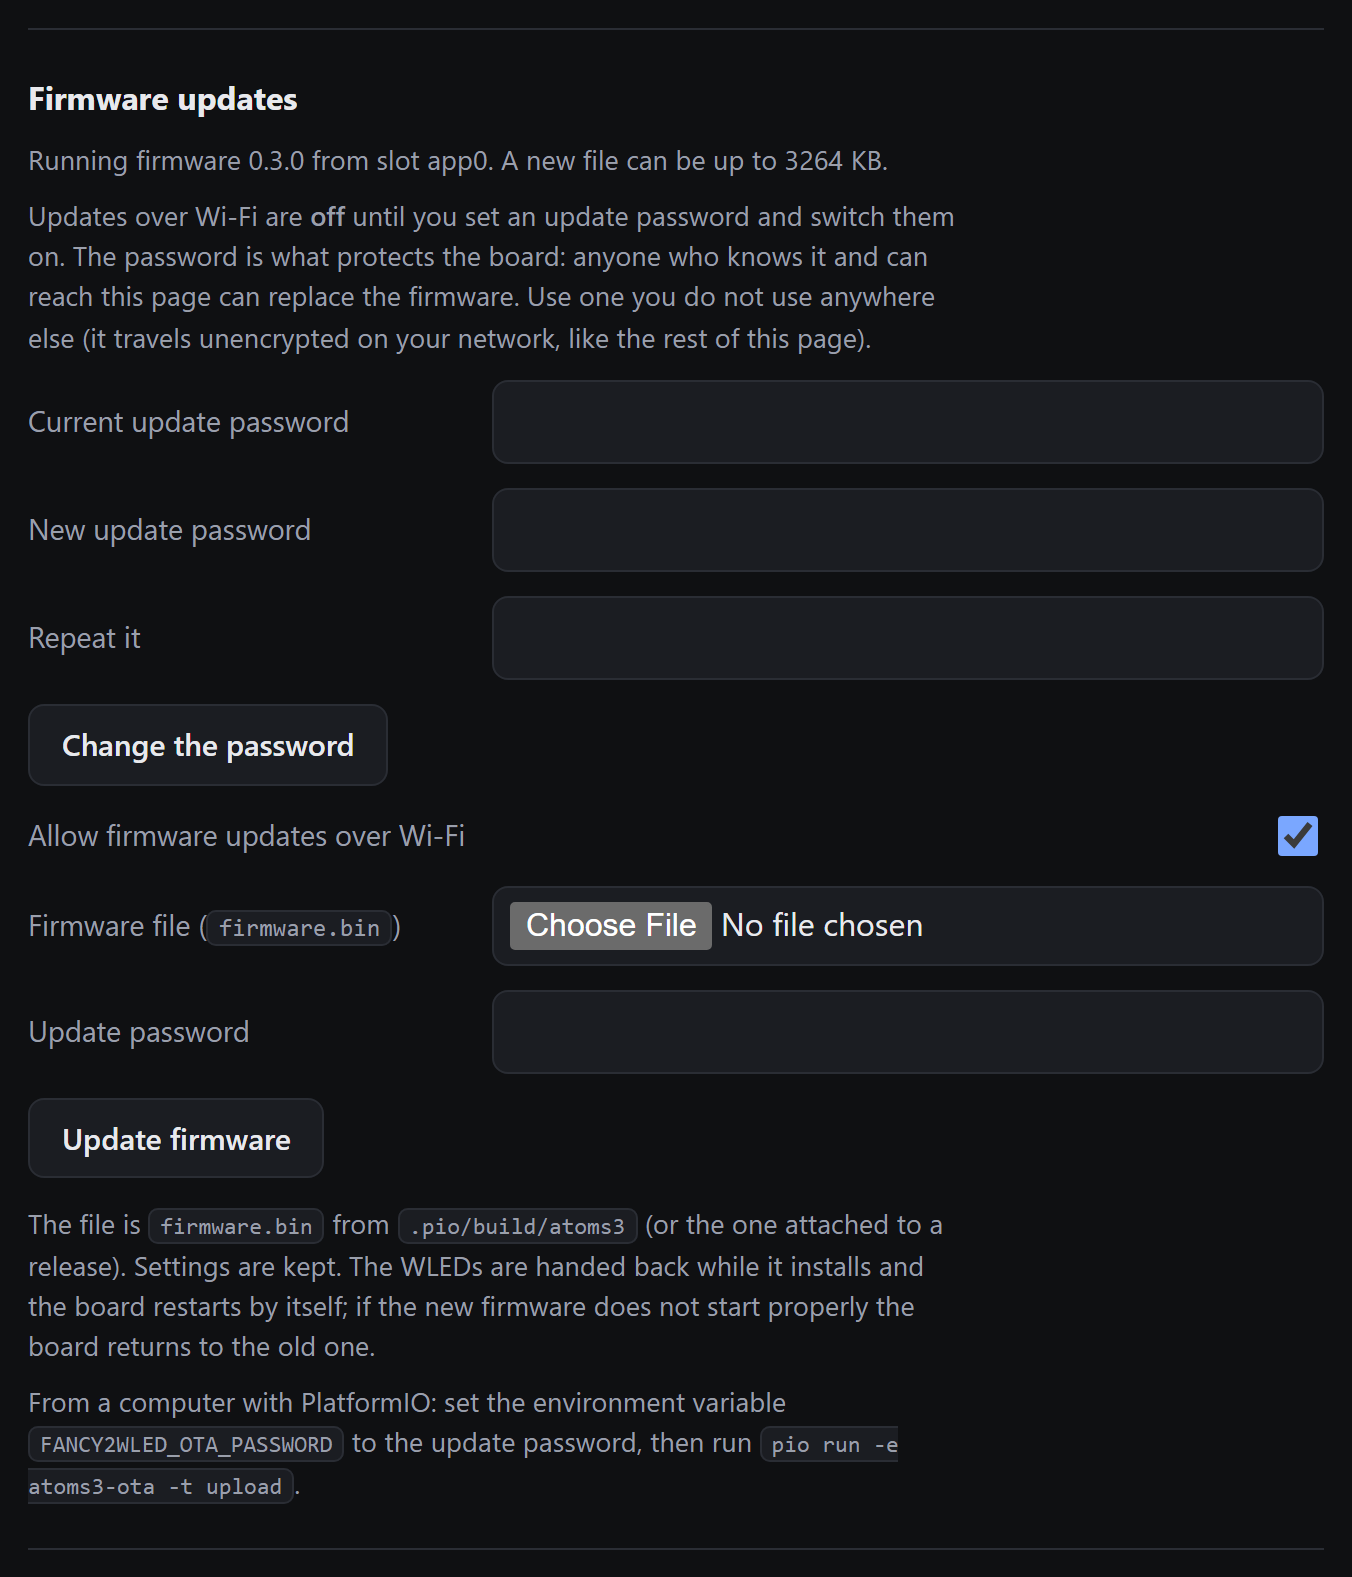
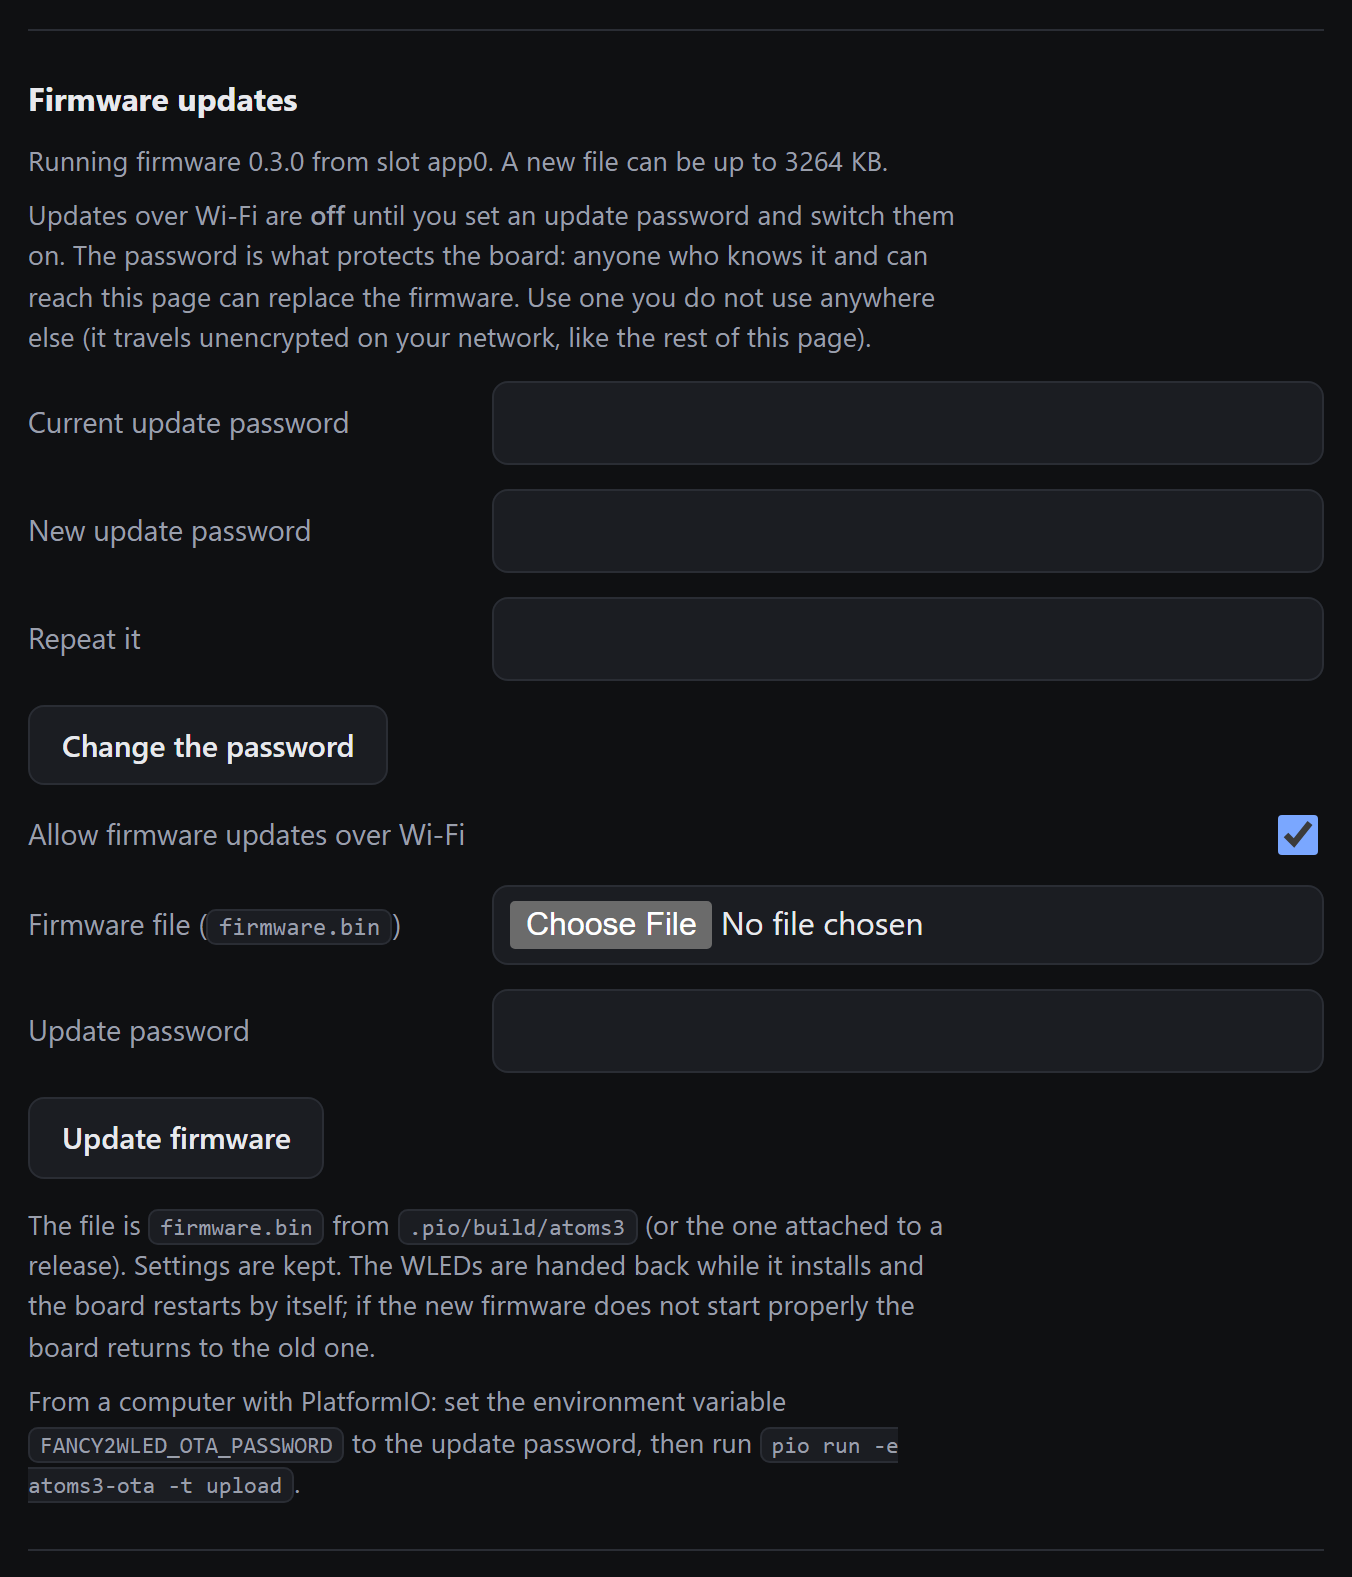
Settings check: a card that says what is wrong or could be better
A card on the setup page, after Look, reads the Look settings and every target
(from the form, so unsaved edits count) and lists Fixes and Tips: a Reaction
boost that does nothing at box speed 100, settings Motion smoothing overrides, a
box left at its slow default speed, Motion smoothing on top of it, a very high
boost, motion steps at box speed 100, a straight run with no TV part, a TV part
outside the run, and two targets driving the same LEDs of one WLED. It never
changes anything itself. 13 new page checks (237 in all); README and the
screenshots updated.

diff --git a/web/index.html b/web/index.html
@@ -160,6 +160,12 @@ input[type=range].wide{width:100%}
   reaching it at the end of the strip. 100% = it takes the whole strip, lower = it blends faster, 0 = the end LEDs just repeat the TV's edge colour.</p>
 </div>
 
+<div class="card" id="adviceCard">
+  <h2>Settings check</h2>
+  <p class="small mut">Looks at your settings (the ones you have not saved yet too) and points out combinations that waste delay, do nothing, or are probably not what you meant. <b>Fix</b> is something that is wrong, <b>Tip</b> is something that could be better.</p>
+  <div id="advice" class="small" aria-live="polite"></div>
+</div>
+
 <div class="card" id="tvCard">
   <h2>When the TV is off</h2>
   <p class="small mut">The Sync Box sends no signal of its own when the TV is switched off (checked with the TV's power button, over CEC): it keeps sending, with a completely black picture. So the board decides the TV is off when the picture has been <i>completely</i> black for a while, and on again with the first colour. A long black screen counts as off too, which is why the delay is a setting.</p>
@@ -248,6 +254,46 @@ input[type=range].wide{width:100%}
   function show(id,on){$(id).classList.toggle('hidden',!on);}
   function num(id,def){var v=parseInt($(id).value,10);return isNaN(v)?def:v;}
   function msg(html){$('saveMsg').innerHTML=html;}
+
+  /* ---------------------------------------------------------------- settings check */
+  /* A target as the check sees it: the one being edited comes from the form (so unsaved changes count), the others from the board's config. */
+  function tinfo(i){
+    var t=cfg&&cfg.targets&&cfg.targets[i];if(!t)return null;
+    if(i===sel){var s=tvSpan();return {name:$('tName').value||t.name,kind:isGovee()?'govee':'wled',enabled:$('tOn').checked,host:$('wHost').value.trim().toLowerCase(),start:num('wStart',0),count:num('wCount',0),linear:linear(),set:s.set,first:s.first,last:s.last};}
+    var l=t.layout||{},w=t.wled||{};
+    return {name:t.name,kind:t.kind,enabled:t.enabled!==false,host:String(w.host||'').trim().toLowerCase(),start:w.start|0,count:w.count|0,linear:l.type==='linear',set:l.spanFirst>=0&&l.spanLast>=0,first:l.spanFirst,last:l.spanLast};
+  }
+  function advice(){
+    var box=$('advice');if(!box||!cfg||!cfg.targets)return;
+    var out=[],boost=parseInt($('kBoost').value,10)/100,bsp=parseInt($('kBsp').value,10),mot=parseInt($('kMot').value,10),smo=parseFloat($('kSmo').value),i,k;
+    function add(level,text){out.push({level:level,text:text});}
+    if(bsp>=100&&boost>0&&mot===0)add('fix','Reaction boost does nothing at a box speed of 100: the box does not smooth, so there is nothing to undo. Set the boost to 0.');
+    if(mot>0&&(boost>0||smo>0)){var un=[];if(boost>0)un.push('Reaction boost');if(smo>0)un.push('Smoothing over time');add('tip','Motion smoothing is on, so '+un.join(' and ')+(un.length>1?' are':' is')+' not used while it is. Set '+(un.length>1?'them':'it')+' to 0 to tidy up, or Motion smoothing to 0 to use '+(un.length>1?'them':'it')+'.');}
+    if(bsp<100&&mot===0&&boost===0)add('tip',"The box is smoothing its colours (speed "+bsp+"%), so the lights lag behind the picture. The best fix: set the box's Speed of Diffusion to 100% in its app and Box speed here to 100. Or keep the box as it is and raise Reaction boost.");
+    if(bsp<100&&mot>0)add('tip',"The box is smoothing (speed "+bsp+"%) and Motion smoothing adds more delay on top. For the lowest delay set the box's Speed of Diffusion to 100% in its app and Box speed here to 100.");
+    if(bsp<100&&boost>=0.9&&mot===0)add('tip','A Reaction boost this high can overshoot for a moment when Wi-Fi drops a packet. 50 to 70 is safer.');
+    if(bsp>=100&&mot===0)add('tip','At a box speed of 100 the box sends a new picture only about every 100 ms, so the lights move in steps. Try Motion smoothing 50 to 100.');
+    var ts=[];for(i=0;i<cfg.targets.length;i++)ts.push(tinfo(i));
+    ts.forEach(function(t){
+      if(!t||!t.enabled||t.kind==='govee'||t.count<1)return;
+      if(t.linear&&!t.set)add('tip',t.name+': no TV part is set, so the whole run is treated as the picture. If the strip is longer than the TV, set the first and last LED of the TV part to the edges of the picture ("Show markers on the LEDs" helps).');
+      if(t.linear&&t.set&&(t.first<0||t.last>=t.count||t.first>=t.last))add('fix',t.name+': the TV part is outside the run, or its ends are the wrong way round.');
+    });
+    for(i=0;i<ts.length;i++)for(k=i+1;k<ts.length;k++){
+      var a=ts[i],c=ts[k];
+      if(!a||!c||!a.enabled||!c.enabled||a.kind==='govee'||c.kind==='govee'||!a.host||a.host!==c.host||a.count<1||c.count<1)continue;
+      var lo=Math.max(a.start,c.start),hi=Math.min(a.start+a.count,c.start+c.count)-1;
+      if(lo<=hi)add('fix',a.name+' and '+c.name+' both drive LEDs '+lo+' to '+hi+' of the same WLED, so each overwrites the other there.');
+    }
+    box.textContent='';
+    if(!out.length){var ok=document.createElement('span');ok.className='ok';ok.textContent='No problems found.';box.appendChild(ok);return;}
+    out.sort(function(x,y){return (x.level==='fix'?0:1)-(y.level==='fix'?0:1);});
+    out.forEach(function(o){
+      var p=document.createElement('p'),lab=document.createElement('b');p.style.margin='6px 0';
+      lab.className=o.level==='fix'?'warn':'mut';lab.textContent=o.level==='fix'?'Fix: ':'Tip: ';
+      p.appendChild(lab);p.appendChild(document.createTextNode(o.text));box.appendChild(p);
+    });
+  }
 
   /* ---------------------------------------------------------------- picture map */
   var usage=[],usageTimer=null,COLORS=['#3b82f6','#f59e0b','#22c55e','#d946ef'],NS='http://www.w3.org/2000/svg';
@@ -532,7 +578,7 @@ input[type=range].wide{width:100%}
     var M=c.mqtt||{};$('mqOn').checked=!!M.enabled;$('mqHost').value=M.host||'';$('mqPort').value=M.port||1883;$('mqUser').value=M.user||'';$('mqPass').value='';
     $('mqPass').placeholder=M.passSet?'(unchanged)':'';$('mqBase').value=M.base||'';$('mqDisc').value=M.discovery||'homeassistant';$('mqPerf').checked=!!M.perf;
     usage=list.map(function(t){return t.usage||[];});
-    applyKind();vals();labels();info();setDirty(false);drawMap();
+    applyKind();vals();labels();info();setDirty(false);drawMap();advice();
   }
   function vals(){$('tTrimV').textContent='('+Math.round(100*parseFloat($('tTrim').value))+'%)';var sh=parseInt($('tSharp').value,10);$('tSharpV').textContent='('+(sh<=0?'smooth':(sh>=100?'sharp':sh+'%'))+')';$('tSatV').textContent='('+Math.round(100*parseFloat($('tSat').value))+'%)';['Bri','Gam','Sat','Smo'].forEach(function(k){$('k'+k+'V').textContent='('+parseFloat($('k'+k).value).toFixed(2)+')';});$('kOutV').textContent='('+parseInt($('kOut').value,10)+'%)';$('kMotV').textContent='('+(parseInt($('kMot').value,10)<=0?'off':parseInt($('kMot').value,10)+'%')+')';$('kBspV').textContent='('+parseInt($('kBsp').value,10)+'%'+(parseInt($('kBsp').value,10)>=100?', the box does not smooth':'')+')';$('tBlurV').textContent='('+(parseInt($('tBlur').value,10)<=0?'off':parseInt($('tBlur').value,10)+(isGovee()?' segments':' LEDs'))+')';$('kBoostV').textContent='('+parseInt($('kBoost').value,10)+'%)';}
   function setDirty(d){dirty=d;$('dirty').textContent=d?'Not saved yet':'';}
@@ -605,7 +651,7 @@ input[type=range].wide{width:100%}
 
   /* ---------------------------------------------------- live preview (unsaved) */
   function changed(){
-    vals();labels();info();setDirty(true);drawMap();scheduleUsage();
+    vals();labels();info();setDirty(true);drawMap();advice();scheduleUsage();
     clearTimeout(timer);
     timer=setTimeout(async function(){
       if(!testing)return;                       // only push changes live while the rainbow test is running
@@ -616,6 +662,7 @@ input[type=range].wide{width:100%}
     },350);
   }
   document.querySelectorAll('[data-live]').forEach(function(e){e.addEventListener('input',changed);e.addEventListener('change',changed);});
+  ['input','change'].forEach(function(ev){document.addEventListener(ev,function(){try{advice();}catch(e){}});});          // the settings check follows every field, not only the live-preview ones
 
   /* ------------------------------------ markers: light the LEDs where the run / the TV part starts and ends */
   var markTimer=null, MARK=3, midUntil=0;                                  // midUntil: the green middle LED stays in the markers until then

diff --git a/test/test_pages.js b/test/test_pages.js
@@ -317,6 +317,26 @@ async function cdp(wsUrl) {
     await p.ev("document.getElementById('save').click(); 1"); await sleep(600);
     check('index: Save sends the box speed', dev.state.lastConfigPost && dev.state.lastConfigPost.look && dev.state.lastConfigPost.look.boxSpeed === 100, JSON.stringify(dev.state.lastConfigPost && dev.state.lastConfigPost.look));
     await p.ev("var b=document.getElementById('kBsp'); b.value='40'; b.dispatchEvent(new Event('input',{bubbles:true})); document.getElementById('save').click(); 1"); await sleep(500);
+    // the settings check follows the Look sliders, saved or not
+    {
+      const sl = async (id, v) => { await p.ev("var e=document.getElementById('" + id + "'); e.value='" + v + "'; e.dispatchEvent(new Event('input',{bubbles:true})); 1"); await sleep(120); };
+      const adv = () => p.ev("document.getElementById('advice').textContent");
+      await sl('kBoost', 0); await sl('kMot', 0); await sl('kBsp', 40); await sl('kSmo', 0.5);
+      check('check: a box left at speed 40 with no boost and no motion smoothing gets the tip to set it to 100', /Tip: The box is smoothing its colours \(speed 40%\).*Speed of Diffusion to 100%/.test(await adv()), await adv());
+      await sl('kBsp', 100);
+      check('check: at box speed 100 that tip is gone and the steps tip appears instead', !/speed 40%/.test(await adv()) && /Tip: At a box speed of 100.*Motion smoothing 50 to 100/.test(await adv()), await adv());
+      await sl('kBoost', 60);
+      check('check: a boost at box speed 100 is a fix, and sorted first', /^Fix: Reaction boost does nothing at a box speed of 100/.test(await adv()), await adv());
+      await sl('kMot', 50);
+      check('check: with motion smoothing on, the boost and the smoothing over time are said to be unused (no boost fix any more)', /Motion smoothing is on, so Reaction boost and Smoothing over time are not used/.test(await adv()) && !/does nothing/.test(await adv()), await adv());
+      await sl('kBoost', 0); await sl('kSmo', 0);
+      check('check: with nothing contradictory it says so', /Motion smoothing is on/.test(await adv()) === false && !/Fix:/.test(await adv()), await adv());
+      await sl('kBsp', 40);
+      check('check: motion smoothing on top of a slow box is a tip', /The box is smoothing \(speed 40%\) and Motion smoothing adds more delay/.test(await adv()), await adv());
+      await sl('kBsp', 100); await sl('kMot', 100); await sl('kSmo', 0);
+      check('check: a good setup (box 100, motion smoothing, no boost, no extra smoothing) shows no look advice', !/Reaction boost|Smoothing over time|box speed|box is smoothing/.test(await adv()), await adv());
+      await sl('kBsp', 40); await sl('kMot', 0); await sl('kSmo', 0.5); await sl('kBoost', 0);          // back to the defaults
+    }
     // nudge buttons + range check
     check('index: nudge buttons are built', (await p.ev("document.querySelectorAll('.nudge button').length")) >= 24);
     await p.ev("document.getElementById('wStart').value='0'; document.querySelector('[data-nudge=wStart] button:last-child').click(); 1");
@@ -410,6 +430,23 @@ async function cdp(wsUrl) {
     check('targets: switching back shows the first target (its address, edge and name)', (await p.ev("document.getElementById('wHost').value")) === '192.0.2.50' && (await p.ev("document.getElementById('lPlace').value")) === 'top' && (await p.ev("document.getElementById('tName').value")) === 'Target 1');
     await p.ev("var s=document.getElementById('tSel'); s.value='1'; s.dispatchEvent(new Event('change',{bubbles:true})); 1"); await sleep(700);
     check('targets: ... and the second again, with its trim', (await p.ev("document.getElementById('wHost').value")) === '192.0.2.225' && (await p.ev("document.getElementById('lPlace').value")) === 'right' && (await p.ev("document.getElementById('tTrim').value")) === '0.5');
+    // the settings check looks at the targets
+    {
+      const adv = () => p.ev("document.getElementById('advice').textContent");
+      const sv = async (id, v) => { await p.ev("var e=document.getElementById('" + id + "'); e.value='" + v + "'; e.dispatchEvent(new Event('input',{bubbles:true})); 1"); await sleep(120); };
+      check('check: a straight run with no TV part set gets a tip, by name', /Tip: Cabinet: no TV part is set/.test(await adv()), await adv());
+      await sv('tvFirst', 20); await sv('tvLast', 200);
+      check('check: with the TV part set that tip is gone', !/Cabinet: no TV part/.test(await adv()), await adv());
+      await sv('tvFirst', 200); await sv('tvLast', 20);
+      check('check: a TV part with its ends the wrong way round is a fix', /Fix: Cabinet: the TV part is outside the run/.test(await adv()), await adv());
+      await sv('tvFirst', ''); await sv('tvLast', '');
+      await sv('wHost', '192.0.2.50');
+      check('check: two targets on the same WLED over the same LEDs are a fix', /Fix: Target 1 and Cabinet both drive LEDs \d+ to \d+ of the same WLED/.test(await adv()), await adv());
+      await sv('wStart', 400);
+      check('check: ... and not once their LEDs no longer overlap', !/both drive LEDs/.test(await adv()), await adv());
+      await sv('wStart', 0); await sv('wHost', '192.0.2.225');
+      check('check: back to the saved values, the overlap fix is gone', !/both drive LEDs/.test(await adv()), await adv());
+    }
     check('targets: the phone-calibration link carries the selected target', /calibrate\?target=1/.test(await p.ev("document.getElementById('calBtn').getAttribute('href')")), await p.ev("document.getElementById('calBtn').getAttribute('href')"));
     dev.state.mark = null;
     await p.ev("document.getElementById('markBtn').click(); 1"); await sleep(700);

diff --git a/README.md b/README.md
@@ -12,6 +12,9 @@ your lights and no PC has to stay on.
   grid, see [What the Sync Box sends](#what-the-sync-box-sends)) with the zones every target pulls from, each zone filled with the colour the box is sending **live**
   and each target a coloured bar under the zones it follows (shaded by how many of its LEDs use the zone). **Click a zone** to light the LEDs that follow it on your
   WLED strips. It redraws as you edit, before you save; the live colours are only fetched while the map is on screen.
+* **A settings check**: a card on the setup page looks at your settings, saved or not, and says what is wrong (**Fix**) or could be better (**Tip**): a Reaction
+  boost that does nothing, settings that Motion smoothing overrides, a box left at its slow default speed, a TV part that is missing or outside the run, or two targets
+  driving the same LEDs of one WLED.
 * **Govee lights too**: a target can be a Govee light on your network (LAN control), followed per segment like a WLED strip ([docs/GOVEE.md](docs/GOVEE.md)).
 * **Updates over Wi-Fi**: after the first USB flash, upload `firmware.bin` on the setup page or push it with PlatformIO. Off until you set an update password;
   a new firmware that fails to start is undone by the board itself ([docs/OTA.md](docs/OTA.md)).
@@ -144,6 +147,7 @@ known pictures to a box (a laptop's HDMI into its input) and records what it bro
 | Setting | Meaning |
 |---|---|
 | WLED address | IP or `name.local` of your WLED (a pasted `http://wled-ceiling.local/` is cleaned up). **Prefer the name** (set it in WLED under Config > WiFi Setup > mDNS address): the board looks it up again every minute, so a WLED that gets a new IP from your router is found again on its own. The page shows which address the name points to. The *Find* button fills in the name. |
+| Settings check | not a setting: a card that checks the Look settings and each target as you edit (nothing is changed for you). **Fix** = something wrong or pointless (a boost at box speed 100, a TV part outside the run, two targets over the same LEDs of one WLED), **Tip** = something that could be better (the box left at speed 40, no TV part set, motion steps) |
 | Picture map | not a setting (apart from a tick box for the live colours, remembered in your browser): the 24 zones drawn where the box really looks; each zone shows the colour the box is sending right now (`GET /api/zones`, twice a second, only while the map is on screen), zones no target follows are faded, and each target is a bar in its colour under the zones it follows, shaded by how many of its LEDs use each zone. It follows unsaved edits (the board does the counting with the same code that drives the lights; `POST /api/usage`). **Click a zone** to light the LEDs that follow it in white on your WLED strips for 8 seconds (click again to switch it off; `POST /api/zonemark`; Govee lights are left alone) |
 | When the TV is off | what to do when the picture has been completely black for the chosen number of seconds (3-600, default 15): **hand the WLEDs back** as they were before sync started (default), **switch them off**, or do nothing (the *TV on* sensor still works). They return with the first frame that has any colour. A long black screen counts as "TV off" too, so raise the delay if that bothers you. Inferred from the picture, not a signal from the box: see [PROTOCOL.md](docs/PROTOCOL.md) |
 | Firmware updates | off until an **update password** (8-64 characters) is set; then tick *Allow firmware updates over Wi-Fi* and upload `firmware.bin` here, or run `pio run -e atoms3-ota -t upload` with `FANCY2WLED_OTA_PASSWORD` set. Changing the password needs the current one; a config file cannot set it. Details, safety rules and rollback: [docs/OTA.md](docs/OTA.md) |
